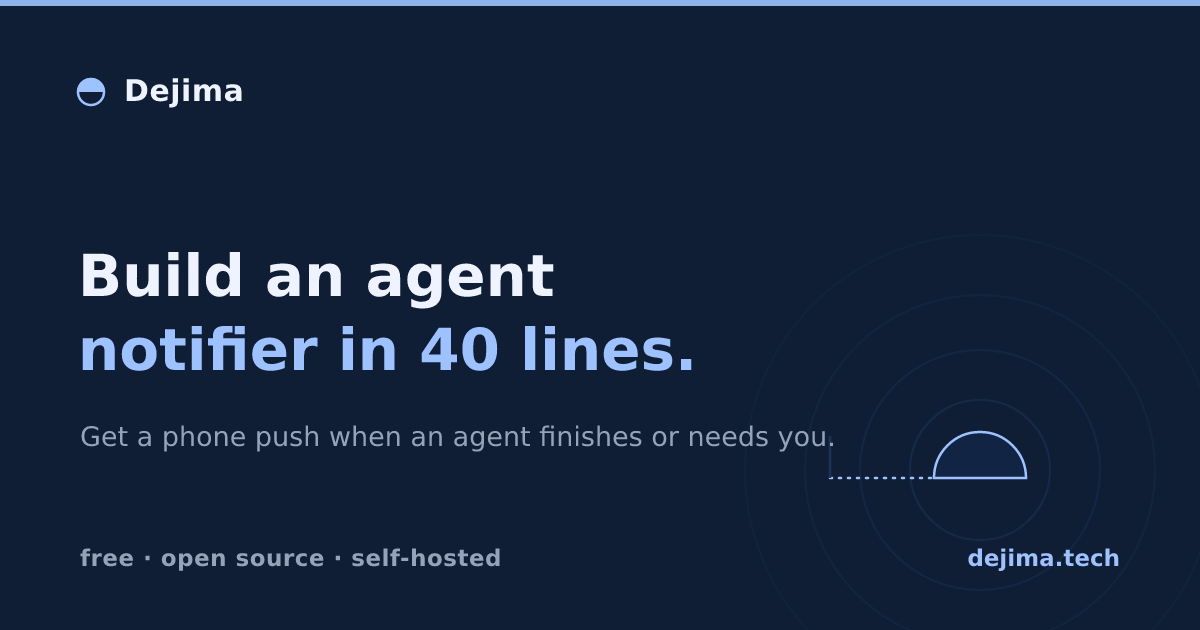
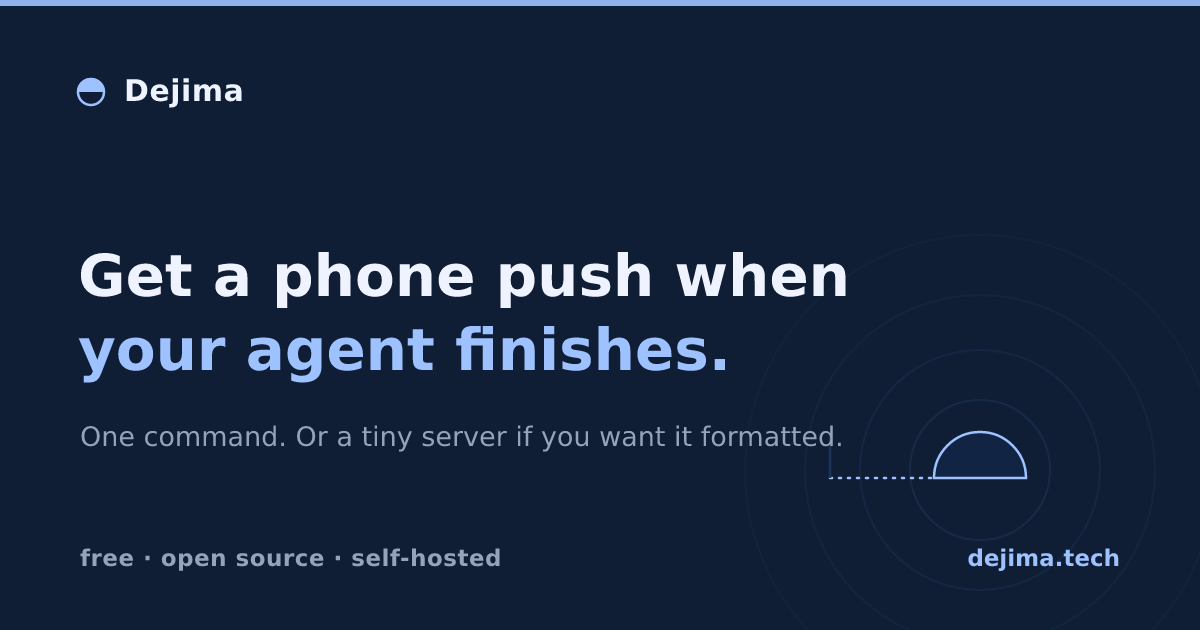
site(guides): reframe notifier guide to lead with the one command
"40 lines" foregrounded effort and undersold the ease. The real story is one
command: `dejima webhook subscribe --url https://ntfy.sh/<topic>` gets phone
pushes on agent events with zero code. Retitled "Get a phone push when your
agent finishes"; leads with the one-liner, demotes the ~30-line server to an
optional "make it readable" section. Updated OG card, hub card, meta, JSON-LD.

Claude-Session: https://claude.ai/code/session_01GsaH1N78fquxRU9v5MxYbm

Changed region(s): [[0.0617, 0.3921, 0.7092, 0.6032], [0.0617, 0.6635, 0.7092, 0.7238]]

diff --git a/guides/build-agent-notifier.html b/guides/build-agent-notifier.html
@@ -3,11 +3,11 @@
 <head>
 <meta charset="utf-8">
 <meta name="viewport" content="width=device-width, initial-scale=1">
-<title>Build an agent notifier in 40 lines (Dejima webhooks) — Dejima</title>
-<meta name="description" content="Stop watching the dashboard. Subscribe to Dejima's webhook events and forward the ones you care about (agent finished, agent needs input) to a phone push. A working notifier in about 30 lines, no SDK required.">
+<title>Get a phone push when your agent finishes (Dejima webhooks) — Dejima</title>
+<meta name="description" content="Get a phone push whenever a Dejima agent finishes, gets stuck, or errors, with one command. Optionally add a small server to format and filter the notifications. No SDK required.">
 <link rel="canonical" href="https://dejima.tech/guides/build-agent-notifier.html">
-<meta property="og:title" content="Build an agent notifier in 40 lines">
-<meta property="og:description" content="Forward Dejima's agent webhook events to a phone push. A working notifier in ~30 lines, no SDK required.">
+<meta property="og:title" content="Get a phone push when your agent finishes">
+<meta property="og:description" content="One command to get agent notifications on your phone. Add a small server if you want them formatted and filtered.">
 <meta property="og:type" content="article">
 <meta property="og:url" content="https://dejima.tech/guides/build-agent-notifier.html">
 <meta property="og:image" content="https://dejima.tech/assets/og-build-notifier.png">
@@ -24,12 +24,12 @@
 {"@type":"BreadcrumbList","itemListElement":[
 {"@type":"ListItem","position":1,"name":"Home","item":"https://dejima.tech/"},
 {"@type":"ListItem","position":2,"name":"Guides","item":"https://dejima.tech/guides/"},
-{"@type":"ListItem","position":3,"name":"Build an agent notifier","item":"https://dejima.tech/guides/build-agent-notifier.html"}]},
-{"@type":"TechArticle","headline":"Build an agent notifier in 40 lines","description":"Subscribe to Dejima's webhook events and forward the ones you care about, like agent-finished and agent-needs-input, to a phone push. A working notifier in about 30 lines, no SDK required.","image":"https://dejima.tech/assets/og-build-notifier.png","datePublished":"2026-07-01","dateModified":"2026-07-01","author":{"@type":"Organization","name":"Dejima"},"publisher":{"@type":"Organization","name":"Dejima","logo":{"@type":"ImageObject","url":"https://dejima.tech/assets/logo.png"}},"mainEntityOfPage":"https://dejima.tech/guides/build-agent-notifier.html"},
+{"@type":"ListItem","position":3,"name":"Get a phone push when your agent finishes","item":"https://dejima.tech/guides/build-agent-notifier.html"}]},
+{"@type":"TechArticle","headline":"Get a phone push when your agent finishes","description":"Subscribe a push service to Dejima's webhooks with one command and get a notification whenever an agent finishes, gets stuck, or errors. Optionally add a small server to format and filter.","image":"https://dejima.tech/assets/og-build-notifier.png","datePublished":"2026-07-01","dateModified":"2026-07-01","author":{"@type":"Organization","name":"Dejima"},"publisher":{"@type":"Organization","name":"Dejima","logo":{"@type":"ImageObject","url":"https://dejima.tech/assets/logo.png"}},"mainEntityOfPage":"https://dejima.tech/guides/build-agent-notifier.html"},
 {"@type":"FAQPage","mainEntity":[
-{"@type":"Question","name":"How do I get notified when my AI agent needs input?","acceptedAnswer":{"@type":"Answer","text":"Dejima emits an agent.waiting-for-input webhook event. Subscribe a URL with dejima webhook subscribe --url, and forward that event to a push service like ntfy. A server of about 30 lines does it; no SDK is required."}},
+{"@type":"Question","name":"How do I get notified when my AI agent needs input?","acceptedAnswer":{"@type":"Answer","text":"One command: dejima webhook subscribe --url https://ntfy.sh/your-topic, then subscribe to that topic in the ntfy app. Your phone buzzes on the agent.waiting-for-input event, along with task-complete and error. Add a small server only if you want the messages formatted or filtered."}},
 {"@type":"Question","name":"What events can I subscribe to?","acceptedAnswer":{"@type":"Answer","text":"Island lifecycle (created, running, hibernated, woken, purged), client attach and detach, and per-agent events: waiting-for-input, task-complete, error, and usage. You subscribe once and filter for the ones you want."}},
-{"@type":"Question","name":"Do I need the SDK to build on Dejima?","acceptedAnswer":{"@type":"Answer","text":"No. Webhooks are plain JSON POSTs, so any HTTP server works. The Python and TypeScript SDKs help when you want to drive islands and attach to sessions programmatically, but a notifier only needs to receive events."}}
+{"@type":"Question","name":"Do I need the SDK to build on Dejima?","acceptedAnswer":{"@type":"Answer","text":"No. Webhooks are plain JSON POSTs, so any HTTP endpoint works, and the one-command subscribe needs no code at all. The Python and TypeScript SDKs help when you want to drive islands and attach to sessions programmatically."}}
 ]}
 ]}
 </script>
@@ -53,24 +53,30 @@
 </nav>
 
 <article class="post">
-  <p class="post-meta">Tutorial · 5 min read</p>
-  <h1 class="post-h">Build an agent notifier in 40 lines</h1>
-  <p class="lede">You don't want to sit and watch a dashboard to catch the moment an agent finishes or gets stuck. Let it tell you. Dejima emits a webhook for every agent event, so a tiny server can turn "task complete" into a push on your phone. Here's the whole thing.</p>
+  <p class="post-meta">Guide · 3 min read</p>
+  <h1 class="post-h">Get a phone push when your agent finishes</h1>
+  <p class="lede">You shouldn't have to watch a dashboard to catch the moment an agent finishes or gets stuck. With Dejima it's one command: point it at a push service, and your phone buzzes on every agent event. Here's the one-liner, plus a small server for when you want the messages tidied up.</p>
 
-  <h2>What Dejima sends you</h2>
-  <p>Subscribe a URL and Dejima POSTs it a small JSON object for every event. Each looks like this:</p>
+  <h2>The one command</h2>
+  <p>Dejima can POST its events straight to a push service. <a href="https://ntfy.sh" target="_blank" rel="noopener">ntfy</a> is the quickest: you pick a topic name, and that's your channel.</p>
+  <pre><code>dejima webhook subscribe --url https://ntfy.sh/your-private-topic</code></pre>
+  <p>Install the ntfy app on your phone, subscribe to the same topic, and you're done. The next time an agent finishes a task, gets stuck, or errors, your phone buzzes. No server, no code.</p>
+  <p class="small">Pick a long, hard-to-guess topic name. Anyone who knows an ntfy topic name can read it.</p>
+
+  <h2>What you'll get pushed</h2>
+  <p>Dejima POSTs a small JSON object for every event:</p>
   <pre><code>{ "type": "agent.task-complete", "island": "web", "agent": "a1",
   "payload": { ... }, "timestamp": "2026-07-01T18:22:04Z" }</code></pre>
-  <p>The events worth a notification are the per-agent ones:</p>
+  <p>The per-agent types are the ones worth a buzz:</p>
   <ul>
     <li><code>agent.waiting-for-input</code> fires when the agent is stuck and needs you.</li>
     <li><code>agent.task-complete</code> fires when it finishes what you asked.</li>
     <li><code>agent.error</code> fires when it hits an error.</li>
   </ul>
-  <p>There's more (island lifecycle, client attach/detach, <code>agent.usage</code> for token counts), but those three are the ones you'll want on your phone.</p>
+  <p>Sent straight to ntfy, each push is that raw JSON. Enough to know what happened. If you'd rather they read like "web/a1 finished," add the small server below.</p>
 
-  <h2>The notifier</h2>
-  <p>A plain Node HTTP server, no framework and no SDK. It receives Dejima's events, keeps the three we care about, and forwards a one-line message to an <a href="https://ntfy.sh" target="_blank" rel="noopener">ntfy</a> topic (free push to your phone). Save it as <code>notifier.mjs</code>:</p>
+  <h2>Make it readable (optional)</h2>
+  <p>A plain Node HTTP server, no framework and no SDK, sits between Dejima and ntfy: it keeps the three events you care about and turns each into a one-line message. Save it as <code>notifier.mjs</code>:</p>
   <pre><code>import http from 'node:http'
 
 const NTFY = 'https://ntfy.sh/your-private-topic'   // your ntfy topic
@@ -98,26 +104,19 @@ http.createServer((req, res) =&gt; {
     await fetch(NTFY, { method: 'POST', body: msg })   // ntfy shows the body as the push
   })
 }).listen(8099, () =&gt; console.log('notifier listening on :8099'))</code></pre>
-  <p>That's it. Run it next to your Dejima daemon (or anywhere on your tailnet the daemon can reach):</p>
-  <pre><code>node notifier.mjs</code></pre>
-
-  <h2>Point Dejima at it</h2>
-  <p>Subscribe your server's URL. Use the address the daemon can reach it on (localhost if it's on the same box, or the tailnet name otherwise).</p>
-  <pre><code>dejima webhook subscribe --url http://localhost:8099</code></pre>
-  <p>Now install the ntfy app on your phone and subscribe to the same topic. The next time an agent finishes or asks a question, your phone buzzes. Trigger one to check: give an agent a quick task and wait for the <code>task-complete</code> push.</p>
-
-  <div class="callout">
-    <p><strong>Just want the raw event, no code?</strong> ntfy accepts a plain POST, so you can skip the server and point Dejima straight at your topic: <code>dejima webhook subscribe --url https://ntfy.sh/your-private-topic</code>. You'll get the raw JSON as the notification. The 30-line server above just makes it readable and lets you filter.</p>
-  </div>
+  <p>Run it wherever the daemon can reach it, then point the subscription at the server instead of ntfy directly:</p>
+  <pre><code>node notifier.mjs
+dejima webhook subscribe --url http://localhost:8099</code></pre>
+  <p>Now the pushes read like "web/a1 finished," and you only get the events you asked for.</p>
 
   <h2>Where to take it</h2>
-  <p>The same shape works for anything. Swap the <code>fetch</code> for a Slack incoming webhook, or a Discord one. Filter by <code>ev.island</code> to route different projects to different channels. Watch <code>agent.usage</code> to track token spend. And when you want to go past receiving events to actually driving islands, the <a href="../build.html">Python and TypeScript SDKs</a> wrap the same API the CLI uses.</p>
+  <p>The same shape works for anything. Swap the <code>fetch</code> for a Slack or Discord incoming webhook. Filter by <code>ev.island</code> to route different projects to different channels. Watch <code>agent.usage</code> to track token spend. And when you want to go past receiving events to actually driving islands, the <a href="../build.html">Python and TypeScript SDKs</a> wrap the same API the CLI uses.</p>
 
   <h2 id="faq">Common questions</h2>
   <div class="faq">
     <div class="faq-item">
       <h3>How do I get notified when my AI agent needs input?</h3>
-      <p>Dejima emits an <code>agent.waiting-for-input</code> webhook event. Subscribe a URL with <code>dejima webhook subscribe --url</code>, and forward that event to a push service like ntfy. A server of about 30 lines does it; no SDK is required.</p>
+      <p>One command: <code>dejima webhook subscribe --url https://ntfy.sh/your-topic</code>, then subscribe to that topic in the ntfy app. Your phone buzzes on the <code>agent.waiting-for-input</code> event, along with <code>task-complete</code> and <code>error</code>. Add a small server only if you want the messages formatted or filtered.</p>
     </div>
     <div class="faq-item">
       <h3>What events can I subscribe to?</h3>
@@ -125,12 +124,12 @@ http.createServer((req, res) =&gt; {
     </div>
     <div class="faq-item">
       <h3>Do I need the SDK to build on Dejima?</h3>
-      <p>No. Webhooks are plain JSON POSTs, so any HTTP server works. The Python and TypeScript SDKs help when you want to drive islands and attach to sessions programmatically, but a notifier only needs to receive events.</p>
+      <p>No. Webhooks are plain JSON POSTs, so any HTTP endpoint works, and the one-command subscribe needs no code at all. The Python and TypeScript SDKs help when you want to drive islands and attach to sessions programmatically.</p>
     </div>
   </div>
 
   <section class="walkthrough">
-    <h2>Have an AI build it with you</h2>
+    <h2>Have an AI set it up with you</h2>
     <p>Paste this into your own AI and it'll walk you through wiring it up, adapted to your setup.</p>
     <div class="fitcheck">
       <div class="fit-actions">
@@ -139,19 +138,18 @@ http.createServer((req, res) =&gt; {
         <a class="deeplink" data-chatgpt href="https://chatgpt.com/" target="_blank" rel="noopener">Open in ChatGPT →</a>
         <span class="fit-hint">Opens in your own AI. Nothing is sent to us.</span>
       </div>
-      <textarea class="fit-prompt" data-prompt rows="11" spellcheck="false" aria-label="Prompt to paste into an AI">I want to build a notifier that pushes to my phone when a Dejima agent finishes or needs input, and I'd like you to walk me through it.
+      <textarea class="fit-prompt" data-prompt rows="11" spellcheck="false" aria-label="Prompt to paste into an AI">I want push notifications on my phone when a Dejima agent finishes or needs input, and I'd like you to walk me through it.
 
 First, FETCH and read these so your steps match Dejima's own docs:
-- This tutorial: https://dejima.tech/guides/build-agent-notifier.html
+- This guide: https://dejima.tech/guides/build-agent-notifier.html
 - Build on Dejima: https://dejima.tech/build.html
 - API reference: https://dejima.tech/api.html
 
 Then walk me through it:
-- Ask where my Dejima daemon runs and where I'll run the notifier (same box or elsewhere on my tailnet), and which push target I want (ntfy, Slack, Discord).
-- Help me stand up the small webhook server for my choice, then run dejima webhook subscribe --url pointed at it.
-- Show me how to trigger a test event and confirm the push arrives.
+- Start with the one-command path: help me pick a push target (ntfy, Slack, Discord) and run dejima webhook subscribe --url pointed at it, then confirm a test push arrives.
+- Only if I want the notifications formatted or filtered, help me stand up the small webhook server and re-point the subscription at it.
 
-Goal: a running notifier that buzzes my phone on agent.task-complete / agent.waiting-for-input / agent.error, filtered how I want.</textarea>
+Goal: my phone buzzes on agent.task-complete / agent.waiting-for-input / agent.error, with the least setup that gets me there.</textarea>
     </div>
   </section>
 

diff --git a/guides/index.html b/guides/index.html
@@ -85,8 +85,8 @@
   <p class="guide-kicker">Build on it</p>
   <div class="guide-list">
     <a class="guide-card" href="build-agent-notifier.html">
-      <h3>Build an agent notifier in 40 lines</h3>
-      <p>Forward Dejima's webhook events to a phone push, so an agent tells you when it finishes or needs you.</p>
+      <h3>Get a phone push when your agent finishes</h3>
+      <p>One command wires Dejima's webhook events to a push on your phone. Add a small server if you want them formatted.</p>
     </a>
   </div>
 
